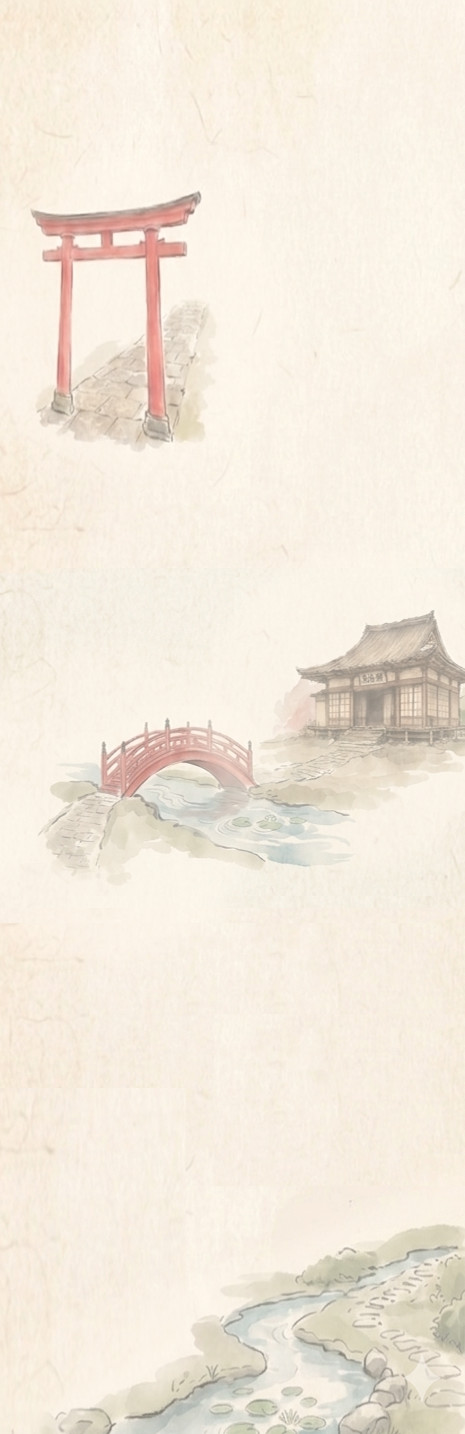
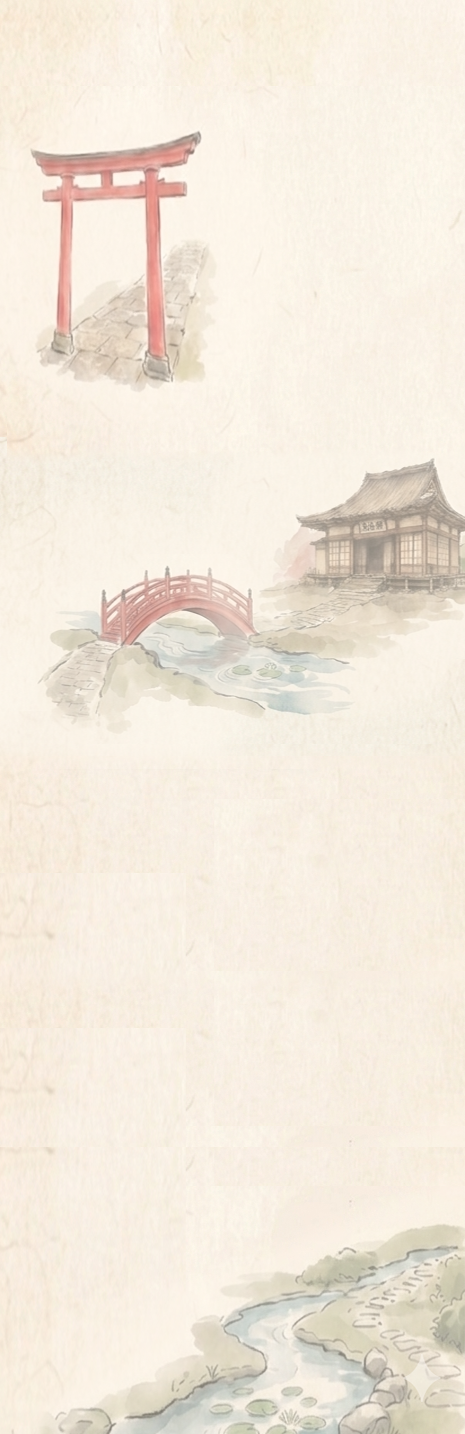
retouching images and root texts

Changed region(s): [[0.0903, 0.3068, 1.0, 0.6137], [0.0602, 0.0921, 0.4516, 0.3068]]

diff --git a/src/pages/Roots.jsx b/src/pages/Roots.jsx
@@ -1,15 +1,8 @@
 /* --- ROOTS: Sección biográfica, evolución profesional*/
-import torii from "../images/design/torii.png";
-import dojo from "../images/design/dojo.png";
 
 function Roots() {
   return (
     <section className="roots">
-      <div className="roots__layers">
-        <img src={torii} className="roots__layer roots__layer--torii" alt="" />
-        <img src={dojo} className="roots__layer roots__layer--bridge" alt="" />
-      </div>
-
       {/* Contenedor principal con imagen en CSS */}
       <div className="roots__container">
         <h2 className="roots__main-title">Raíces</h2>
@@ -17,24 +10,23 @@ function Roots() {
       </div>
 
       <div className="roots__story">
-        <p className="roots__text">
+        <p className="roots__text roots__text--right">
           Mi trayectoria profesional ha pasado por entornos muy distintos, pero
           todos me han dejado una lección importante. Aprendí a moverme en
           ritmos altos y a ser resolutiva, adaptándome a las necesidades del
           momento.
         </p>
 
-        <p className="roots__text">
+        <p className="roots__text roots__text--left">
           También que las cosas bien hechas llevan su tiempo; que para que algo
           crezca hace falta paciencia, una base sólida y mucha atención al
           detalle.
         </p>
 
-        <p className="roots__text roots__text--highlight">
-          Cambié de rumbo para convertir mi curiosidad tecnológica en mi
-          profesión. Tras mi formación en Adalab, busco aportar esa dedicación
-          en proyectos reales, y seguir aprendiendo y evolucionando como
-          desarrolladora.
+        <p className="roots__text roots__text--center">
+          Inspirada en la calma de un jardín Zen, me esfuerzo por escribir
+          código limpio y ordenado, basándome en la disciplina y el aprendizaje,
+          un camino que inicié en Adalab y que sigo recorriendo cada día.
         </p>
       </div>
     </section>

diff --git a/src/styles/pages/_roots.scss b/src/styles/pages/_roots.scss
@@ -11,7 +11,7 @@
   color: $text-color;
 
   background-image: url("/src/images/design/background-movil.png");
-  background-position: center;
+  background-position: inherit;
   background-size: cover;
   background-repeat: no-repeat;
   background-attachment: scroll;
@@ -75,26 +75,24 @@
   }
 
   &__text {
+    font-weight: bolder;
+    font-size: 1.25rem;
     max-width: 65%;
     line-height: 1.6;
+
     margin-bottom: 1rem;
     opacity: 0;
     animation: fadeInUp 1s ease forwards;
 
-    /* Posicionamiento por bloques */
-    &:nth-of-type(1) {
+    &--right,
+    &--left {
       align-self: flex-end;
       text-align: right;
+      margin-top: 3rem;
       animation-delay: 0.8s;
     }
 
-    &:nth-of-type(2) {
-      align-self: flex-start;
-      text-align: left;
-      animation-delay: 1s;
-    }
-
-    &--highlight {
+    &--center {
       align-self: center;
       text-align: center;
       max-width: 90%;
@@ -131,18 +129,21 @@
     &__text {
       max-width: 35rem;
       margin-bottom: 2rem;
+      font-size: 1.25rem;
 
-      &:nth-of-type(1),
-      &:nth-of-type(2) {
-        align-self: flex-start;
+      &--right {
+        align-self: flex-end;
         text-align: right;
         margin-top: 0;
       }
-
-      &--highlight {
+      &--left {
         align-self: flex-start;
-        text-align: left;
-        background-color: transparent;
+        margin-top: 0;
+      }
+
+      &--center {
+        align-self: center;
+        text-align: center;
         padding: 0;
         margin-top: 1rem;
       }

diff --git a/src/styles/pages/_tools.scss b/src/styles/pages/_tools.scss
@@ -99,7 +99,7 @@
 
   &__content {
     position: relative;
-    z-index: 15; // Por encima de la arquitectura
+    z-index: 15;
     flex-grow: 1;
     display: flex;
     flex-direction: column;
@@ -108,7 +108,7 @@
 
     /* --- Katanas Decorativas --- */
     &--katanas {
-      position: relative; // Asegura que el pseudoelemento se posicione respecto a esto
+      position: relative;
 
       &::before {
         content: "";
@@ -117,7 +117,7 @@
         left: 0;
         width: 100%;
         height: 100%;
-        z-index: -1; // Se queda detrás del contenido
+        z-index: -1;
 
         background-image: url("/katanas.png");
         background-repeat: no-repeat;
@@ -268,13 +268,5 @@
   }
   /* --- MEDIA QUERIES (DESKTOP) --- */
   @media (min-width: $breakpoint-desktop) {
-    &__content {
-      &--katanas {
-        &::before {
-          background-position: center bottom 93%;
-          background-size: 28rem 9rem;
-        }
-      }
-    }
   }
 }

diff --git a/src/pages/Hero.jsx b/src/pages/Hero.jsx
@@ -51,10 +51,10 @@ function Hero() {
 
           {/* Filosofía de desarrollo */}
           <p className="hero__description">
-            Inspirada en la calma de un jardín Zen, me esfuerzo por escribir
-            código limpio y ordenado, basándome en la disciplina y el
-            aprendizaje de una onna-musha; un camino que inicié en Adalab y que
-            sigo recorriendo cada día.
+            Cambié de rumbo para convertir mi curiosidad tecnológica en mi
+            profesión. Tras mi formación en Adalab, busco aportar mi dedicación
+            en proyectos reales, y seguir aprendiendo y evolucionando como
+            desarrolladora Fullstack.
           </p>
         </div>
 

diff --git a/src/styles/layout/_header.scss b/src/styles/layout/_header.scss
@@ -193,6 +193,7 @@
       &__seal {
         position: absolute;
         left: 4rem;
+        height: 4.5rem;
       }
 
       &__menu-btn {
@@ -201,7 +202,7 @@
 
       &__nav {
         position: absolute;
-        right: -1rem;
+        right: 4rem;
         margin: 0;
         height: auto;
         width: auto;
@@ -222,7 +223,6 @@
       &__nav-item {
         font-weight: 500;
         letter-spacing: 0.05rem;
-        padding: 0.5rem 1rem;
         border-radius: 0.5rem;
         font-weight: bold;
         border: 0.0625rem solid transparent;
@@ -268,8 +268,6 @@
     &__list {
       display: flex;
       flex-direction: row;
-
-      margin: 0;
     }
   }
 }

diff --git a/src/styles/pages/_hero.scss b/src/styles/pages/_hero.scss
@@ -2,7 +2,7 @@
 
 .hero {
   // Layout: Centrado de contenido con Flexbox
-  min-height: 85vh;
+  flex: 1;
   display: flex;
   flex-direction: column;
   justify-content: center;
@@ -124,7 +124,10 @@
     font-family: $font-japanese;
     font-size: 2.5rem;
     color: $color-red;
-    margin-bottom: 2rem;
+  }
+  &__stack {
+    font-size: 1rem;
+    margin-bottom: 1rem;
   }
 
   // Redes sociales con entrada escalonada

diff --git a/src/components/layout/Footer.jsx b/src/components/layout/Footer.jsx
@@ -5,7 +5,7 @@ function Footer() {
   const currentYear = new Date().getFullYear();
 
   return (
-    <footer className="footer js_footer">
+    <footer className="footer">
       <div className="footer__container">
         {/* Navegación secundaria: Enlaces directos a perfiles profesionales */}
         <div className="footer__social">

diff --git a/src/App.jsx b/src/App.jsx
@@ -26,7 +26,7 @@ function App() {
       <Header />
 
       {/* Área principal de contenido */}
-      <main className="main _main">
+      <main className="main">
         <Routes>
           {/* Ruta de inicio: Presentación principal del portfolio */}
           <Route path="/" element={<Hero />} />

diff --git a/src/styles/pages/_gardenCode.scss b/src/styles/pages/_gardenCode.scss
@@ -43,6 +43,7 @@
     overflow: hidden;
     padding-bottom: 5rem;
     padding: 0 2rem;
+    overflow-x: hidden;
   }
   // Lista dinámica: Gestiona el centrado mediante cálculos de padding
   &__list {

diff --git a/src/styles/core/_base.scss b/src/styles/core/_base.scss
@@ -12,6 +12,7 @@ body {
   line-height: 1.6;
   font-size: 1rem;
   min-height: 100vh;
+  overflow-x: hidden;
 }
 .layout {
   display: flex;
